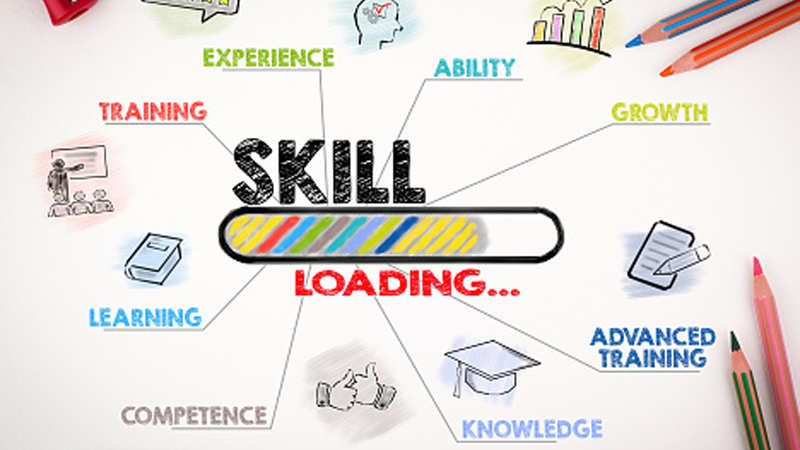
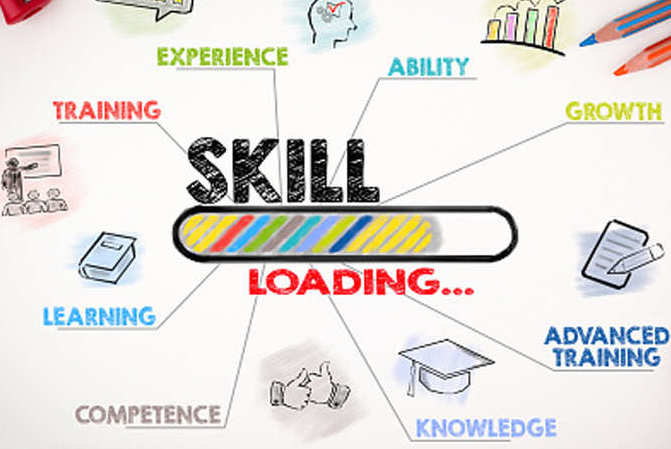
Responsive Resume Page

diff --git a/index.html b/index.html
@@ -2,6 +2,10 @@
 
     <meta charset="UTF-8">
 
+    <meta name="viewport" content="width=device-width, initial-scale=1.0">
+
+    <meta http-equiv="X-UA-Compatible" content="ie=edge">
+
     <link rel="stylesheet" type="text/css" href="style.css">
 
     <title>TheUrk's final project(Pre-camp)</title>
@@ -20,7 +24,7 @@
 
         <div class="leftBlock">
 
-            <img src="/image/IMG_0957.JPG" alt="รูปผมเองครับ" width="460" height="370">
+            <img src="/image/IMG_0957.JPG" style="max-width: 100%;height: auto; position: relative;" alt="รูปผมเองครับ" >
 
         </div>
 
@@ -61,7 +65,7 @@
 
         <div class="rightBlock">
 
-            <img src="/image/skill.jpg" alt="รูปสกิลแบบต่างๆ" width="460" height="370">
+            <img src="/image/skill.jpg" style="max-width: 100%;height: auto; position: relative;"  alt="รูปสกิลแบบต่างๆ"  >
 
         </div>
 
@@ -72,7 +76,7 @@
 
         <div class="leftBlock">
 
-            <img src="/image/ThreeEver_Logo_Crop.jpg" alt="รูปผมเองครับ" width="460" height="370">
+            <img src="/image/ThreeEver_Logo_Crop.jpg" style="max-width: 100%;height: auto; position: relative;" alt="logo บริษัท" >
 
         </div>
 

diff --git a/style.css b/style.css
@@ -6,12 +6,34 @@ body {
 }
 
 
+*{
+    -webkit-box-sizing:border-box;
+    -moz-box-sizing:border-box;
+    box-sizing:border-box;
+}
+
+
+@media only screen and (max-width:620px) {
+  
+         .lefttBlock {
+             width: 100%;
+             float: left;
+         }
+
+         .righttBlock {
+            width: 100%;
+            float: left;
+        }
+}
+
+
 .blueSpace {
     position: relative;
     background-color: lightblue;
     color: #616464;
     padding: 280px;
     margin: -10px;
+    width: 100%;
 }
 
 .redSpace {
@@ -20,14 +42,15 @@ body {
     color: azure;
     padding: 280px;
     margin: -10px;
+    width: 100%;
 }
 
 .leftBlock {
         position: absolute;
         left: 100px;
         top: 90px;
-        width: 460px;
-        height: 370px;
+        max-width: 100%;
+        height: auto;
 
 }
 
@@ -45,5 +68,5 @@ body {
     padding: 40px;
     margin: -10px;
     text-align: center;
-   
- }
+}
+ 
